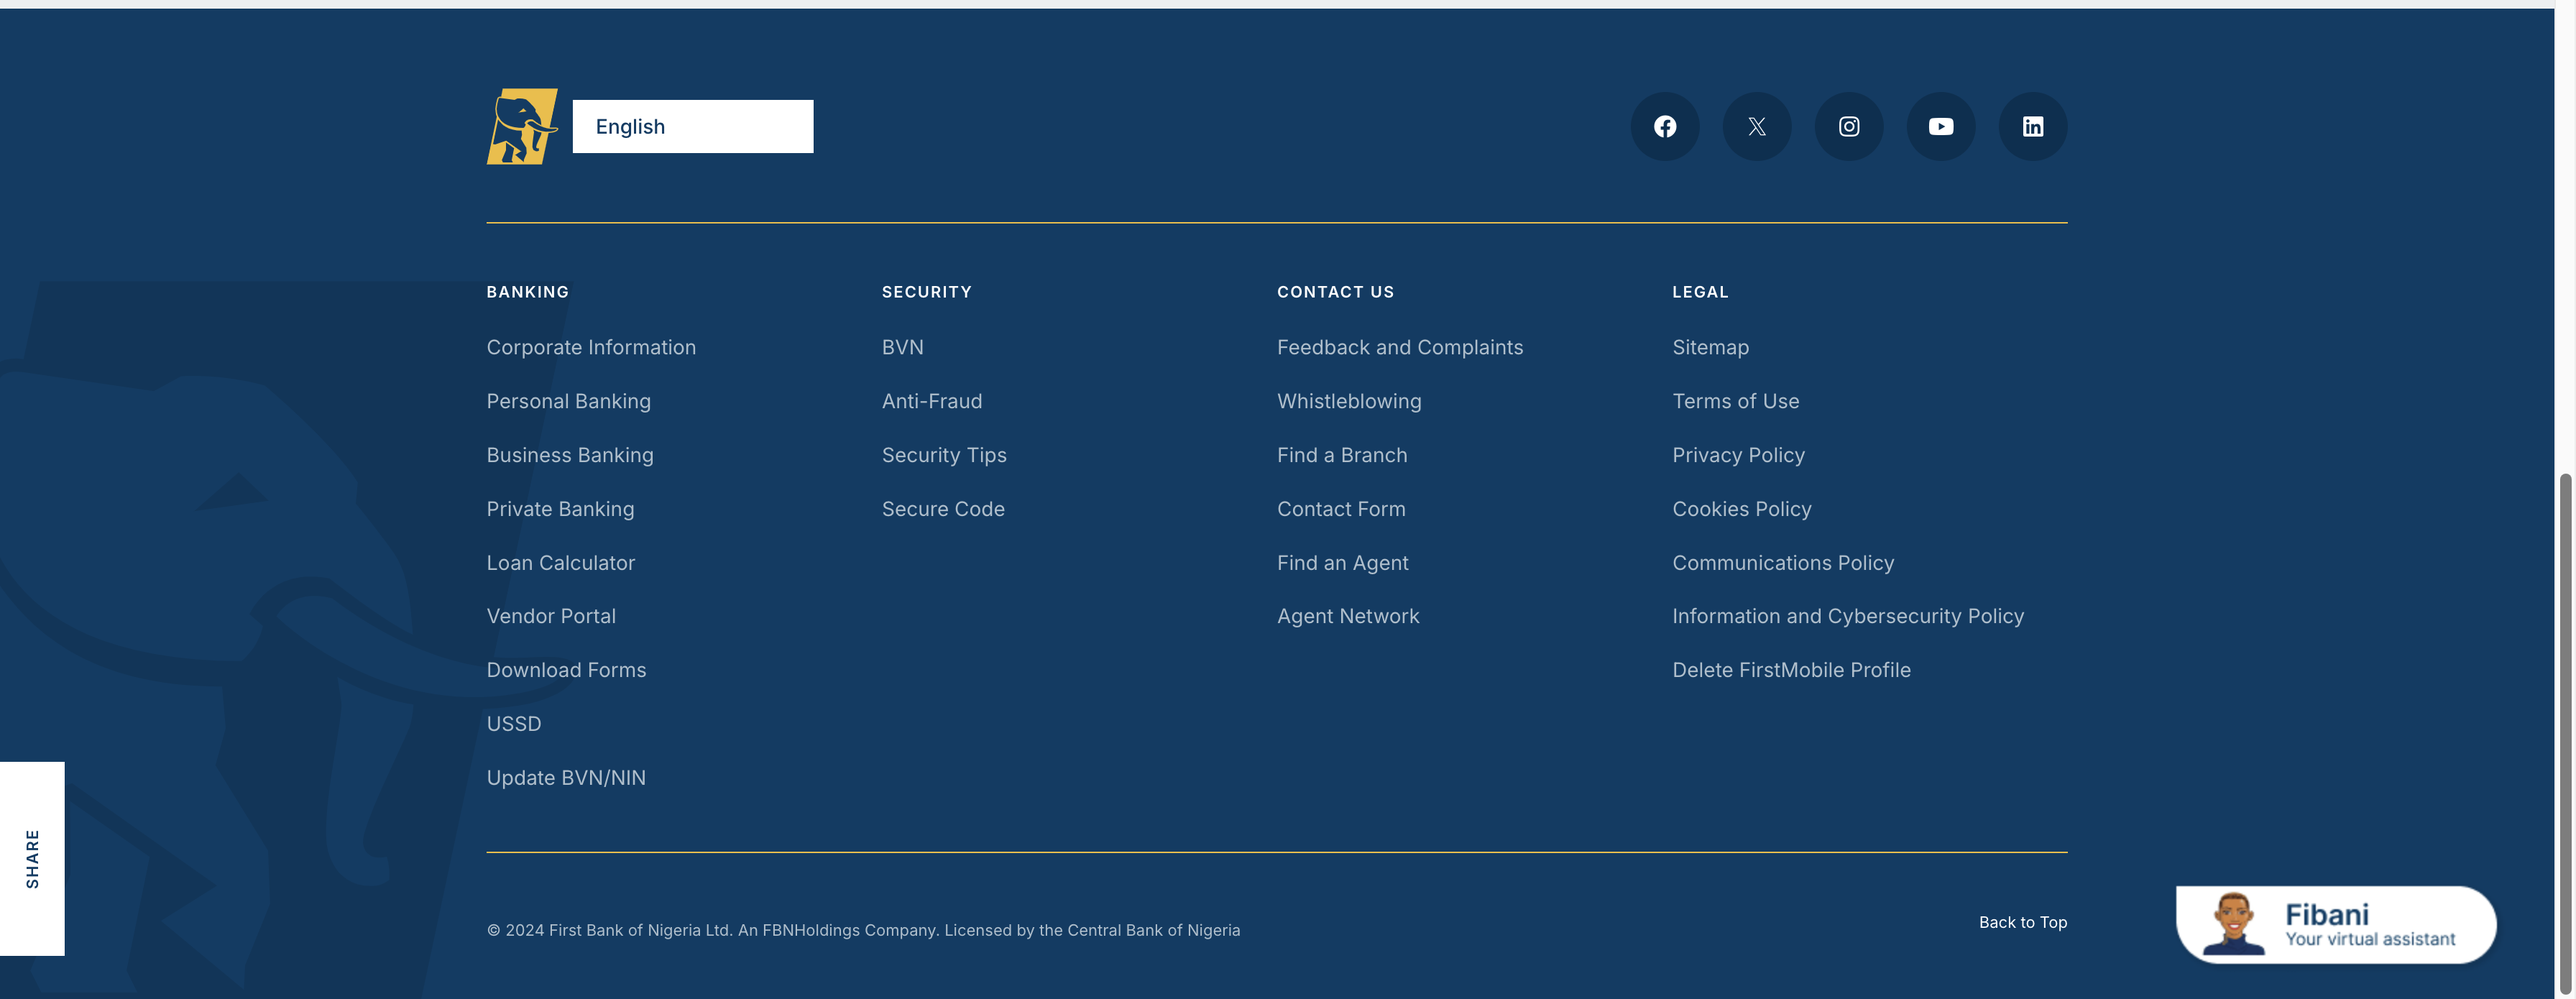
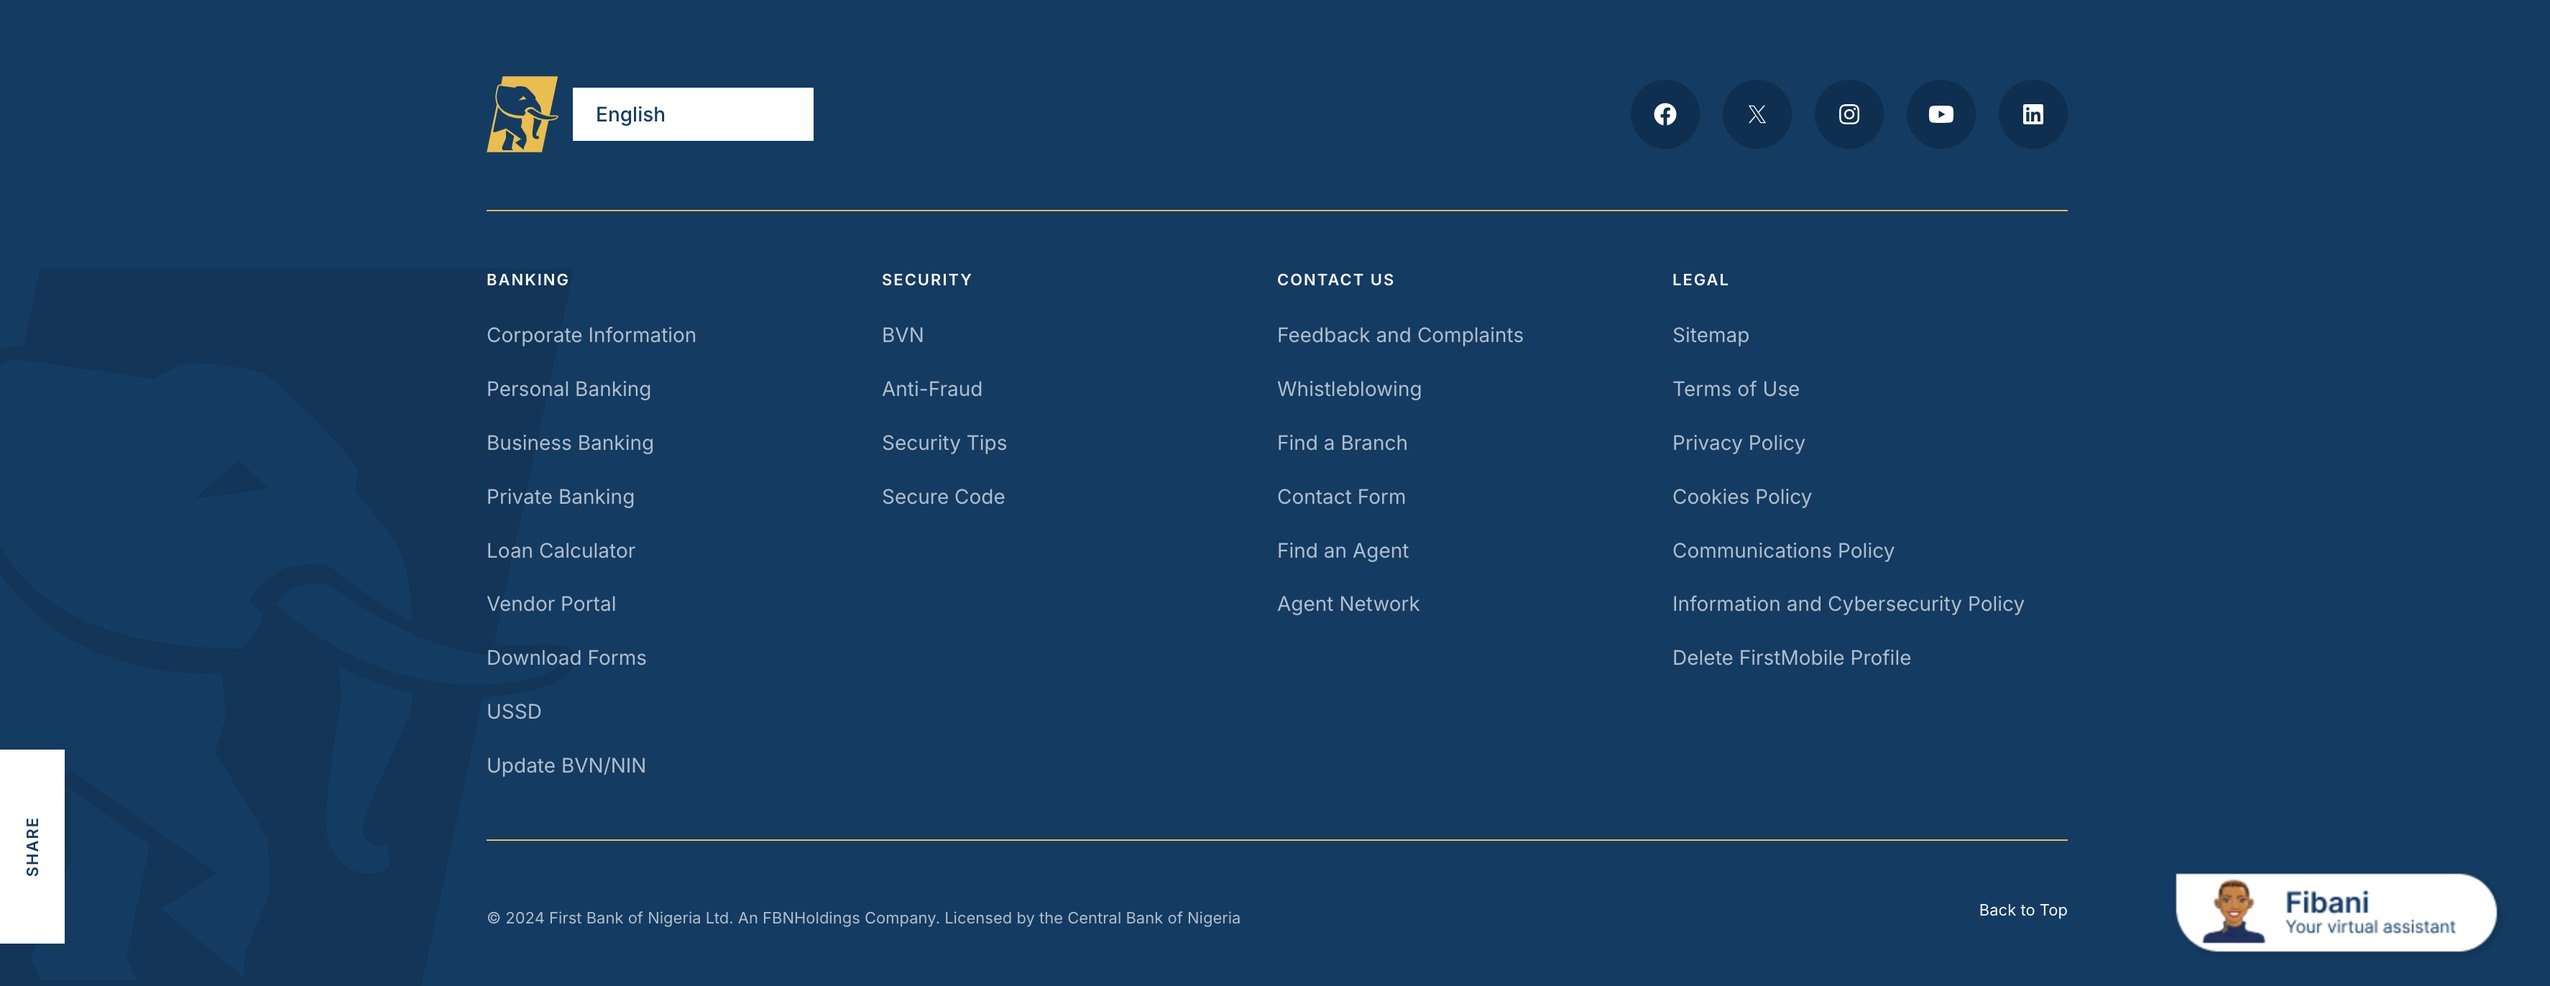
Update footer image, add passport asset, and upload zone HTML edits

diff --git a/src/app/features/identity-document-update/components/document-upload/document-upload.component.html b/src/app/features/identity-document-update/components/document-upload/document-upload.component.html
@@ -394,7 +394,7 @@
                         fill="#1855F5" />
                 </svg>
             </div>
-            <p class="modal-label">Document Upload</p>
+            <!-- <p class="modal-label">Document Upload</p> -->
             <h2 class="modal-title" id="additionalDocTitle">Additional document required</h2>
             <p class="modal-body">Utility bill (less than six months)</p>
             <div class="modal-actions">
